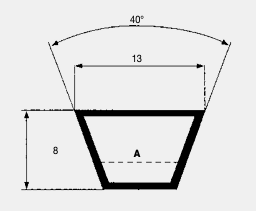
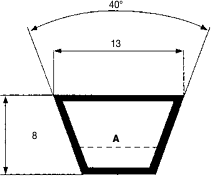
Make the remaining white-background diagrams transparent
- Belting A/B/C belt section drawings: their light-grey (240) paper
  background removed with colour-to-alpha, keeping every line and label
- Belting "main V-belt components" text image: white removed the same
  way; V-belt picture: its white sticker-style halo removed
- AC motor exploded view: AI matting keeps the 3D parts solid while
  colour-to-alpha keeps the labels and leader lines; the floor shadow
  is dropped. Saved as a new transparent WebP and referenced from the
  AC motor page and the four motor product galleries, with a one-time
  catalog batch swapping the old JPEG path in the live catalog
- The diagram frames no longer have a white background or border

Claude-Session: https://claude.ai/code/session_01XhN9P9rsHzkZy5jz2SB5do

diff --git a/db/ac-motor-products.ts b/db/ac-motor-products.ts
@@ -74,22 +74,22 @@ function motor(name: string, supply: string, mounting: string, imagePath: string
 /* Product names are the original picture file names. */
 export const acMotorProducts: CreateProductInput[] = [
   motor("Single phase B3 Foot Mounted", "Single phase", "B3 Foot Mounted", "/products/ac-motor/single-phase-b3-foot-mounted.webp", [
-    "/ac-motor/motor-exploded-view.jpg",
+    "/ac-motor/motor-exploded-view.webp",
   ]),
   motor("Single phase B5 flanges mounted", "Single phase", "B5 flanges mounted", "/products/ac-motor/single-phase-b5-flange-mounted.webp", [
-    "/ac-motor/motor-exploded-view.jpg",
+    "/ac-motor/motor-exploded-view.webp",
   ]),
   motor("Three phase B3 Flange Mounted", "Three phase", "B3 Flange Mounted", "/products/ac-motor/three-phase-b3-foot-mounted.webp", [
     "/ac-motor/three-phase-motor-blue-1.jpg",
     "/ac-motor/three-phase-motor-grey-3.jpg",
     "/ac-motor/three-phase-motor-crate.jpg",
-    "/ac-motor/motor-exploded-view.jpg",
+    "/ac-motor/motor-exploded-view.webp",
   ]),
   motor("Three phase B5 Flange Mounted", "Three phase", "B5 Flange Mounted", "/products/ac-motor/three-phase-b5-flange-mounted.webp", [
     "/ac-motor/three-phase-motor-blue-2.jpg",
     "/ac-motor/geared-motor-1.jpg",
     "/ac-motor/geared-motor-2.jpg",
-    "/ac-motor/motor-exploded-view.jpg",
+    "/ac-motor/motor-exploded-view.webp",
   ]),
 ];
 

diff --git a/app/globals.css b/app/globals.css
@@ -2734,7 +2734,7 @@ textarea:focus::placeholder {
 .acm-uses .feature-list { margin: 0; align-self: center; }
 .acm-uses .feature-list li { font-size: 15px; }
 
-.acm-anatomy-figure { margin: 0; background: #fff; border: 1px solid var(--line); padding: clamp(12px,3vw,40px); }
+.acm-anatomy-figure { margin: 0; background: transparent; padding: clamp(12px,3vw,40px) 0; }
 .acm-anatomy-figure img { display: block; width: 100%; height: auto; }
 
 .acm-applications { background: var(--cream); }
@@ -2787,7 +2787,7 @@ textarea:focus::placeholder {
 .info-simply .acm-why { margin: 0; }
 .acm-applications + .info-simply { margin-top: -1px; }
 .info-diagram-grid { margin-top: 48px; display: grid; grid-template-columns: repeat(3,1fr); gap: 16px; }
-.info-diagram-grid figure { margin: 0; background: #fff; border: 1px solid var(--line); padding: 20px; display: grid; place-items: center; min-height: 240px; }
+.info-diagram-grid figure { margin: 0; background: transparent; padding: 20px; display: grid; place-items: center; min-height: 240px; }
 .info-diagram-grid img { max-width: 100%; max-height: 300px; object-fit: contain; }
 .acm-stock + .acm-stock { padding-top: 0; }
 

diff --git a/app/ac-induction-motor/page.tsx b/app/ac-induction-motor/page.tsx
@@ -62,7 +62,7 @@ export default async function AcInductionMotorPage() {
       <section className="section acm-anatomy">
         <figure className="acm-anatomy-figure" data-reveal="up">
           <img
-            src="/ac-motor/motor-exploded-view.jpg"
+            src="/ac-motor/motor-exploded-view.webp"
             alt="AC induction motor cut away"
             loading="lazy"
             decoding="async"

diff --git a/db/catalog-seeds.ts b/db/catalog-seeds.ts
@@ -82,4 +82,9 @@ export const catalogSeedBatches: CatalogSeedBatch[] = [
       ].map((name) => [`/products/${name}.jpg`, `/products/${name}.webp`]),
     ),
   },
+  {
+    // Transparent version of the AC motor exploded-view diagram (was a white JPEG).
+    id: "2026-11-transparent-motor-diagram",
+    replaceImages: { "/ac-motor/motor-exploded-view.jpg": "/ac-motor/motor-exploded-view.webp" },
+  },
 ];
